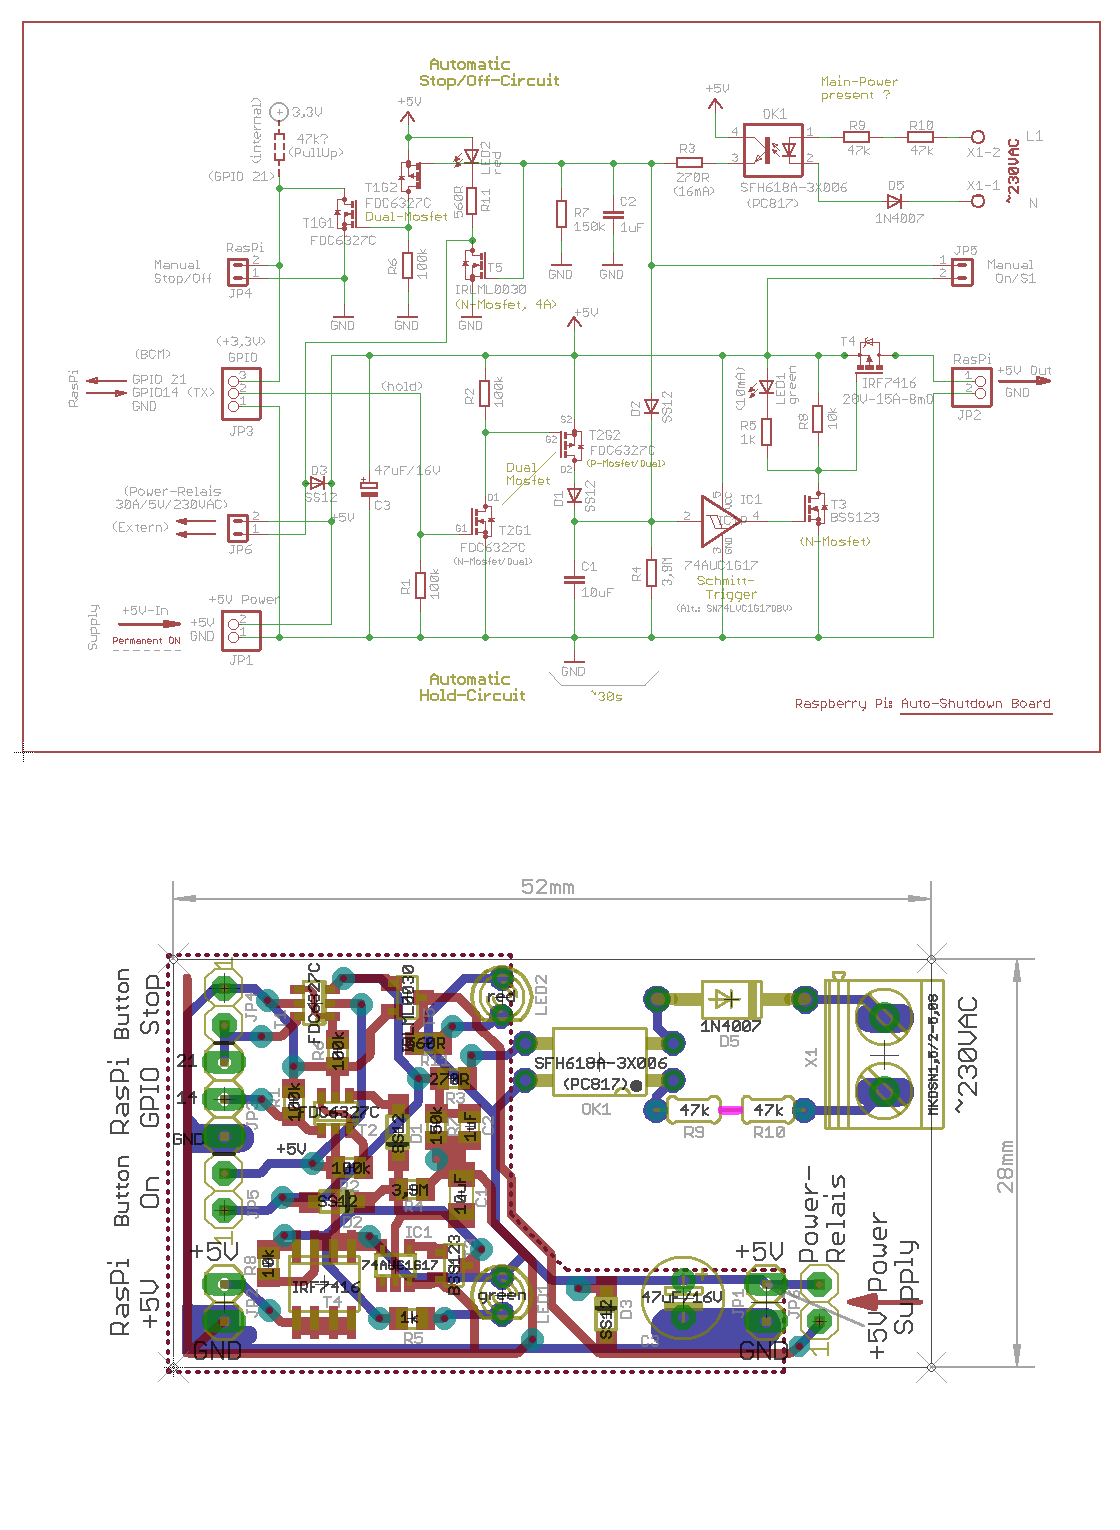
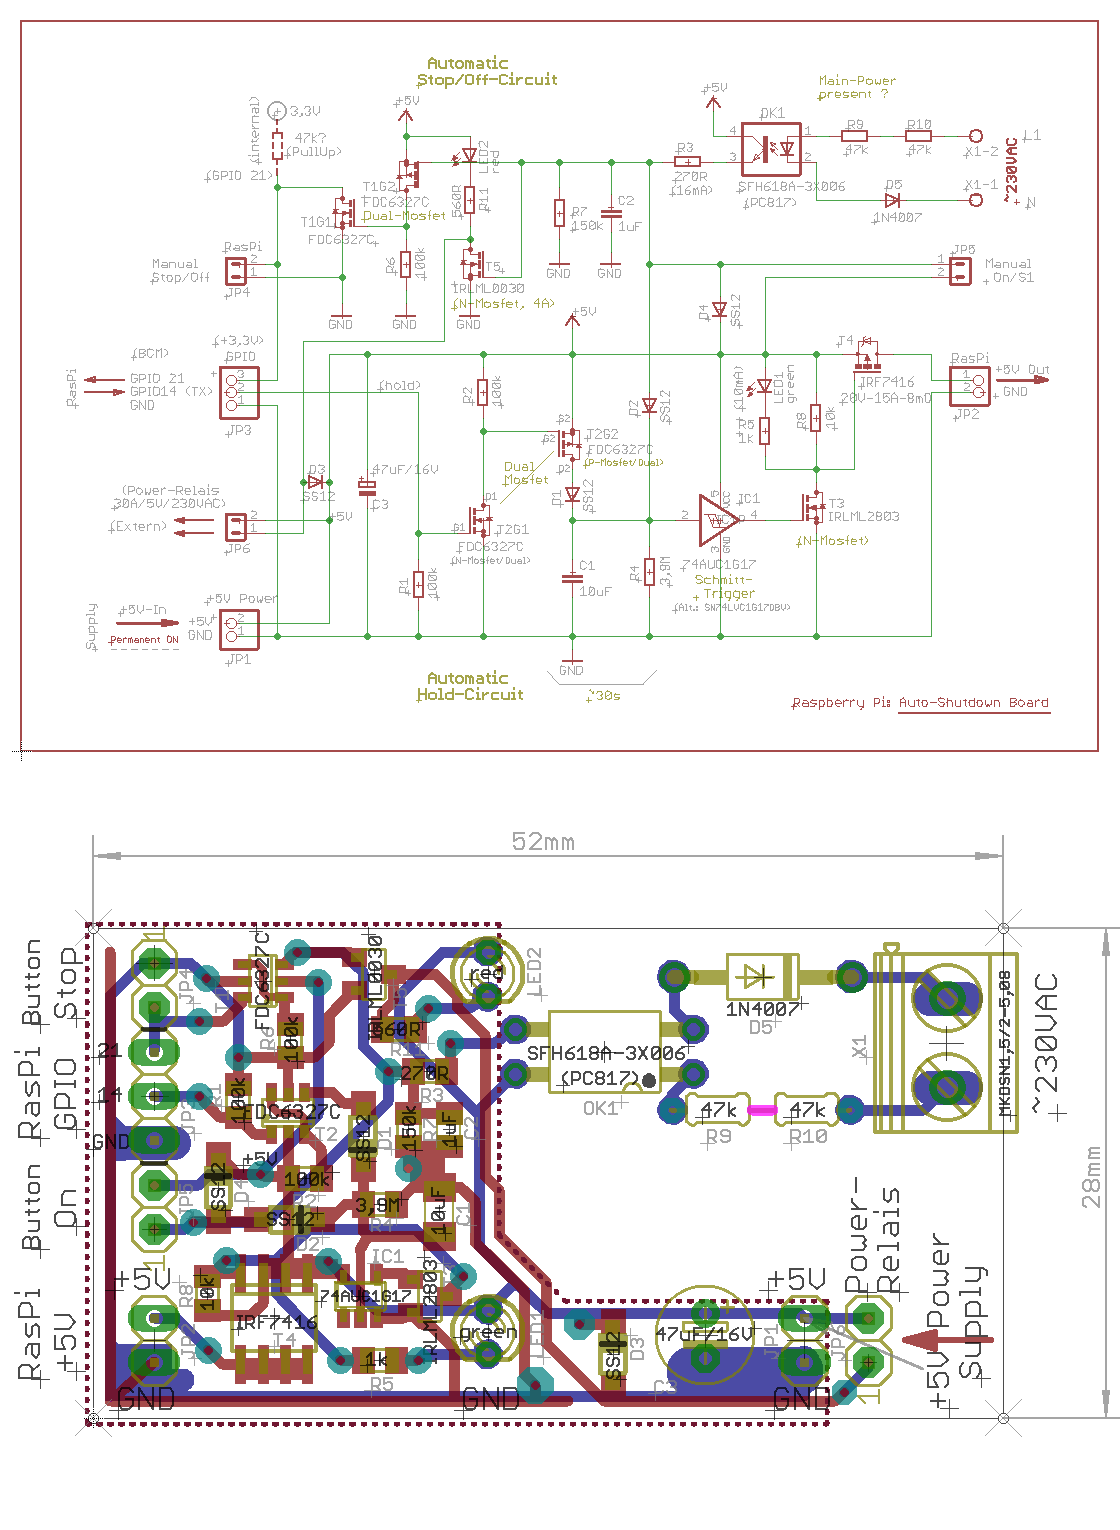
Add files via upload

diff --git a/Raspi-On-Off_PMos_SMD_nl_BOM.htm b/Raspi-On-Off_PMos_SMD_nl_BOM.htm
@@ -31,7 +31,7 @@ td:first-child {padding:0;} /*images w/o*/
 <tr><td></td><td>2</td><td>R9, R10</td><td>47k&Omega;</td><td>Resistor (metal), THD</td><td>0204/5</td></tr>
 <tr><td></td><td>1</td><td>R11</td><td>560&Omega;</td><td>Resistor, SMD</td><td>R0805</td></tr>
 <tr><td></td><td>2</td><td>T1, T2</td><td>FDC6327C</td><td>Dual N- & P-Channel Mosfet, SMD</td><td>SOT23-6</td></tr>
-<tr><td></td><td>1</td><td>T3</td><td>BSS123</td><td>Generic N-Channel Mosfet, SMD (60V/150mA/6R)</td><td>SOT23</td></tr>
+<tr><td></td><td>1</td><td>T3</td><td>IRLML2803</td><td>Generic N-Channel Mosfet, SMD (30V-1A-250m&Omega;)</td><td>SOT23</td></tr>
 <tr><td></td><td>1</td><td>T4</td><td>IRF7416</td><td>P-Channel MOSFET</td><td>SO-08</td></tr>
 <tr><td></td><td>1</td><td>T5</td><td>IRLML0030</td><td>N-Channel Mosfet, SMD (30V/4A/40m&Omega;)</td><td>SOT23</td></tr>
 <tr><td>1</td><td>X1</td><td>MKDSN1,5/2-5,08</td><td>Screw Terminal Block: 0.2″ Pitch (=5mm), Side Entry</td><td>2-Pin</td></tr>
